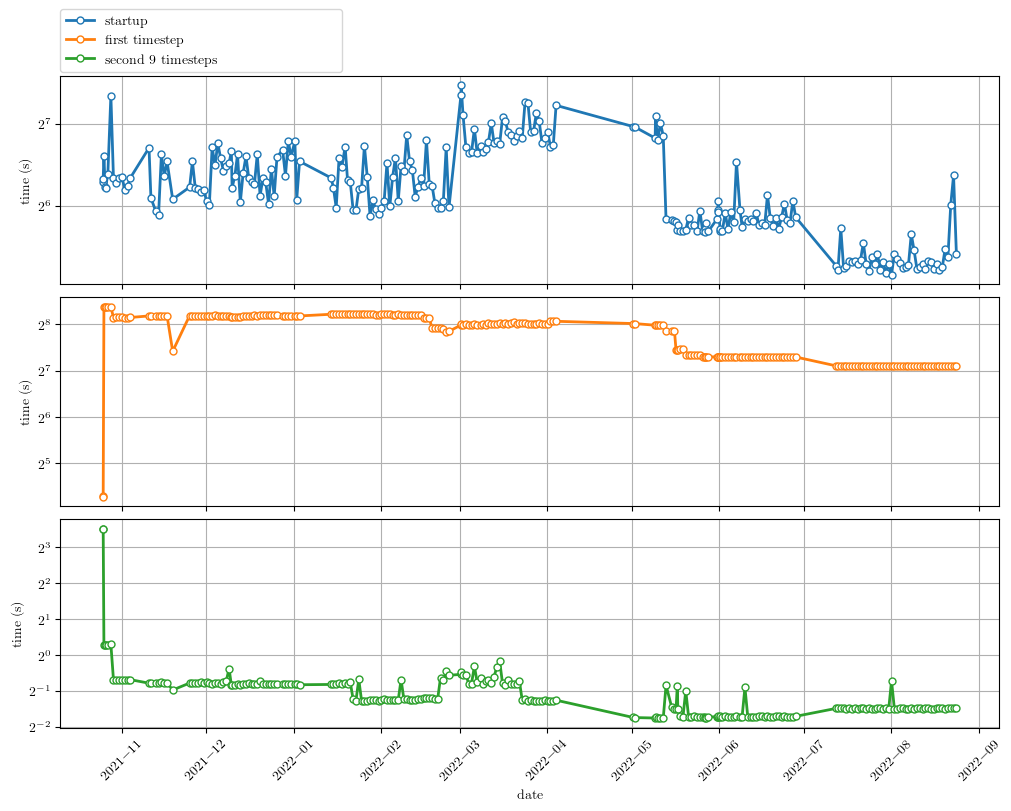
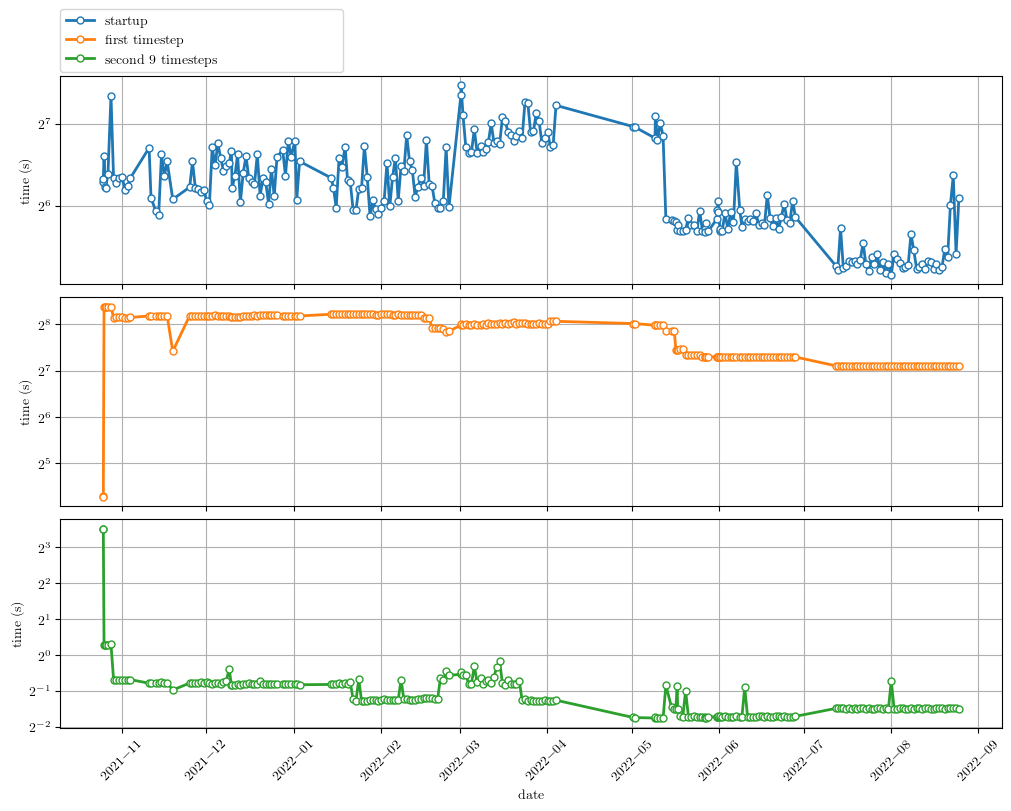
Automatic timing summary commit: lassen708 2022-08-25 01:00

diff --git a/README.md b/README.md
@@ -1,4 +1,4 @@
-Timings last ran on: 2022.08.24
+Timings last ran on: 2022.08.25
 
 # Status of production timings
 
